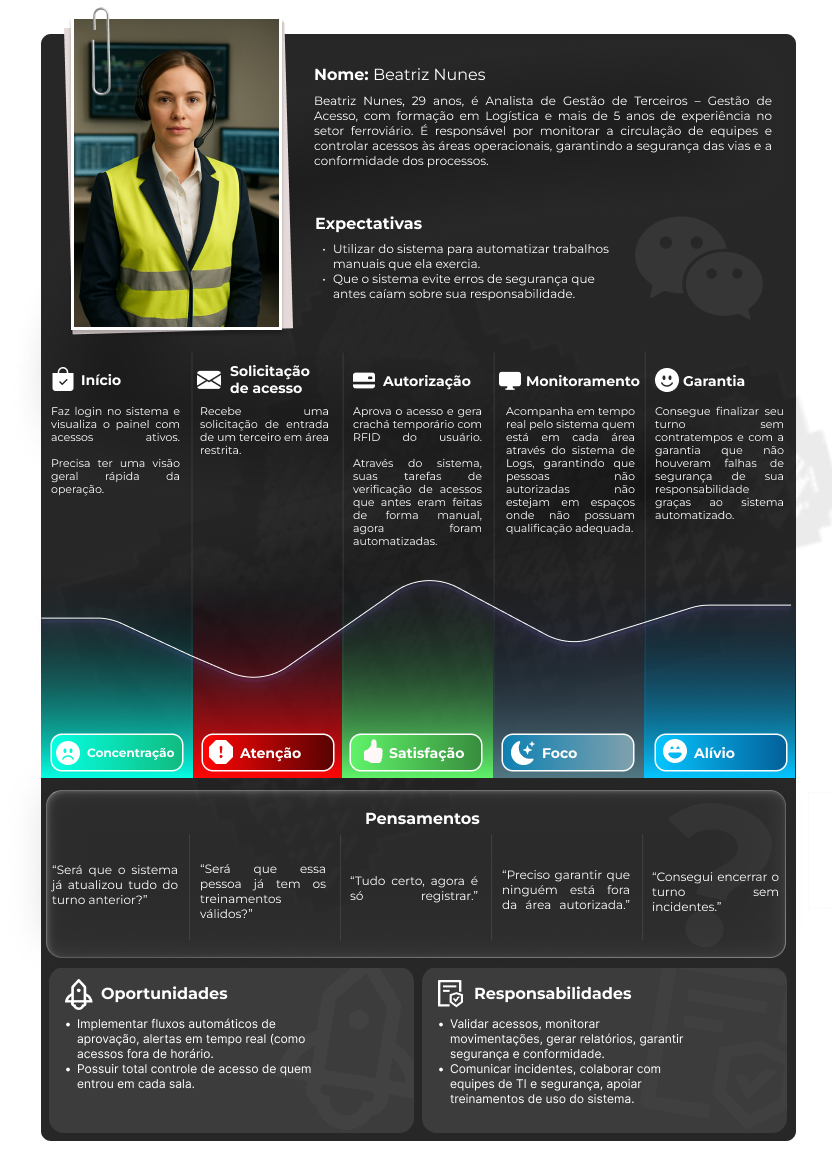
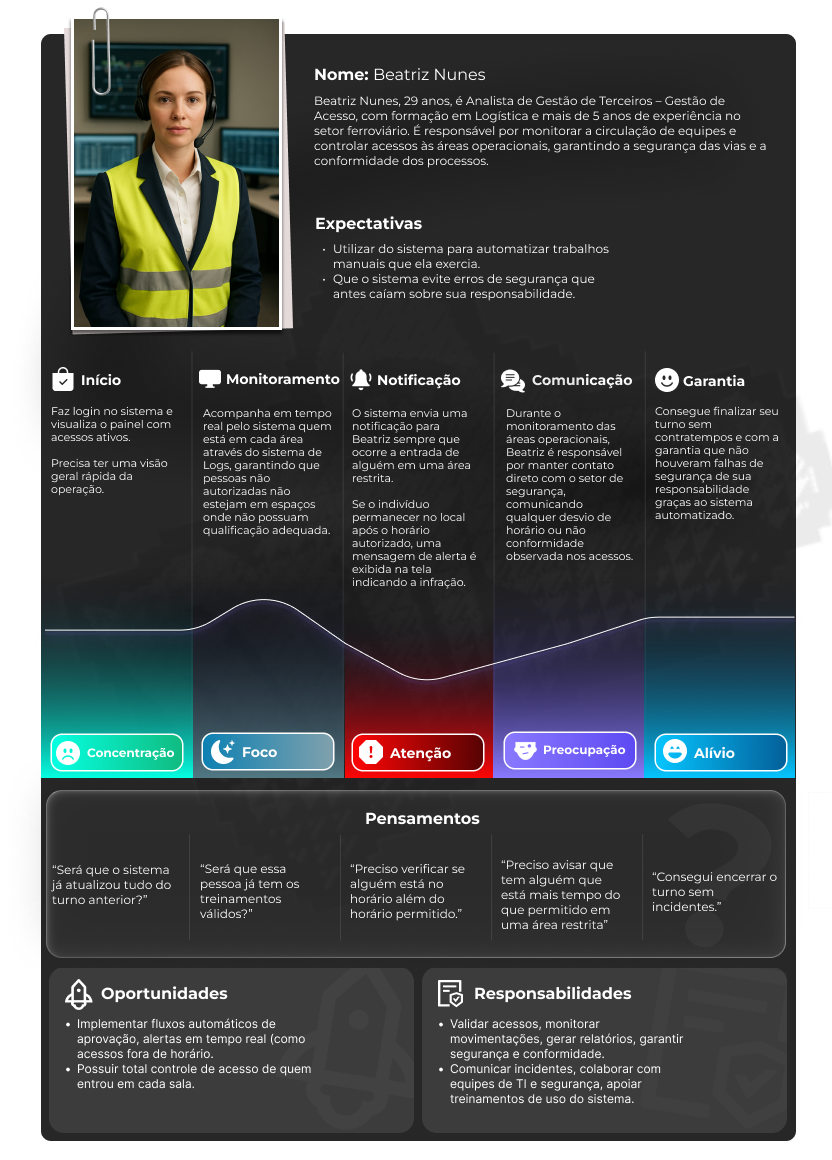
fix: corrigindo erros na documentação da Jornada Beatriz Nunes

diff --git a/document/documentacao.md b/document/documentacao.md
@@ -711,34 +711,36 @@ Portanto a criação de personas se mostra uma etapa imprescindível para o dire
 
 <br>
 
-**Fase 2:** Solicitação de Acesso
-
-&nbsp;&nbsp;&nbsp;&nbsp; Beatriz recebe uma solicitação de acesso por algum trabalhador que precisa realizar uma manutenção em uma área restrita.
-
-**Pensamento:** "Será que essa pessoa já tem os treinamentos válidos e permissão necessária?"
-
-**Sentimento:** Beatriz fica atenta na situação, principalmente para não cometer erros na verificação.
-
-<br>
-
-
-**Fase 3:** Autorização
-
-&nbsp;&nbsp;&nbsp;&nbsp; Após receber a solicitação, Bia aprova o acesso e gera o crachá temporário com RFID vinculado ao usuário, dessa forma, ele só pode entrar na área quando estiver no horário permitido e na respectiva sala. Através do sistema, as tarefas de verificação de acesso são automatizadas.
-
-**Pensamento:** Tudo certo! Agora é só registrar."
-
-**Sentimento:** Ela se sente satisfeita, já que sua tarefa mais tensa agora pode ser realizada sem problemas.
-
-<br>
-
-**Fase 4:** Monitoramento
+**Fase 2:** Monitoramento
 
 &nbsp;&nbsp;&nbsp;&nbsp; Após gerar o cartão, Bia precisa monitorar as pessoas que entram e saem das salas através do sistema de logs da solução, que exibe todas as entradas e saídas em seus respectivos horários, assim garantindo que pessoas de fora da TicTrens não estejam em locais que não possuem qualificação adequada.
 
-**Pensamento:** Preciso garantir que pessoas de fora não estejam em áreas não autorizadas."
+**Pensamento:** "Será que essa pessoa já tem os treinamentos válidos e permissão necessária?"
 
-**Sentimento:** Bia se sente focada em monitorar as entradas.
+**Sentimento:** Beatriz fica focada na situação, principalmente para não cometer erros na verificação.
+
+<br>
+
+
+**Fase 3:** Notificação
+
+&nbsp;&nbsp;&nbsp;&nbsp; O sistema envia uma notificação para Beatriz sempre que ocorre a entrada de alguém em uma área restrita. Se o indivíduo permanecer no local após o horário autorizado, uma mensagem de alerta é exibida na tela indicando a infração.
+
+**Pensamento:** “Preciso verificar se alguém está no horário além do horário permitido.”
+
+**Sentimento:** Ela fica muito atenta e preocupada nessa situação, principalmente porque a mensagem de alerta se trata de um momento crítico durante sua jornada.
+
+<br>
+
+**Fase 4:** Comunicação
+
+&nbsp;&nbsp;&nbsp;&nbsp; Durante o monitoramento das áreas operacionais, Beatriz atua como um elo entre a operação e o setor de segurança. Ela acompanha, em tempo real, o fluxo de pessoas e o cumprimento das normas de acesso, especialmente em zonas restritas que exigem autorização prévia ou tempo máximo de permanência.
+
+Durante esse processo, Beatriz tem um papel fundamental, garantindo a integridade das operações (evitando que pessoas não autorizadas acessem áreas críticas) e preservando a segurança física dos colaboradores;
+
+**Pensamento:** “Preciso avisar que tem alguém que está mais tempo do que permitido em uma área restrita”
+
+**Sentimento:** Bia se sente muito preocupada nessas situações, pois ela precisa agir sem hesitação, pois um atraso pode representar grande risco na segurança.
 
 <br>
 
